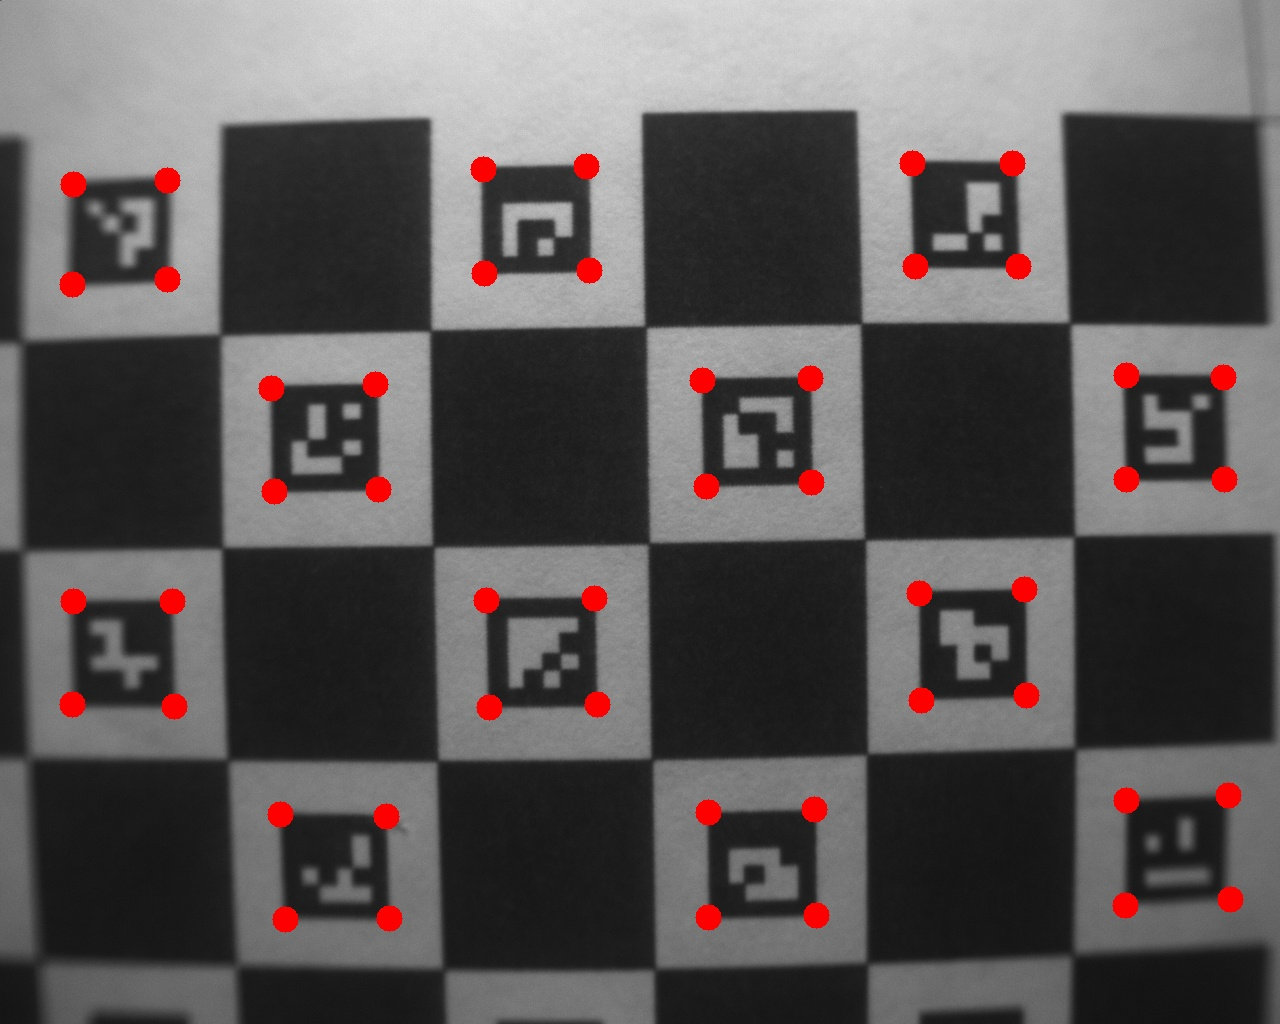
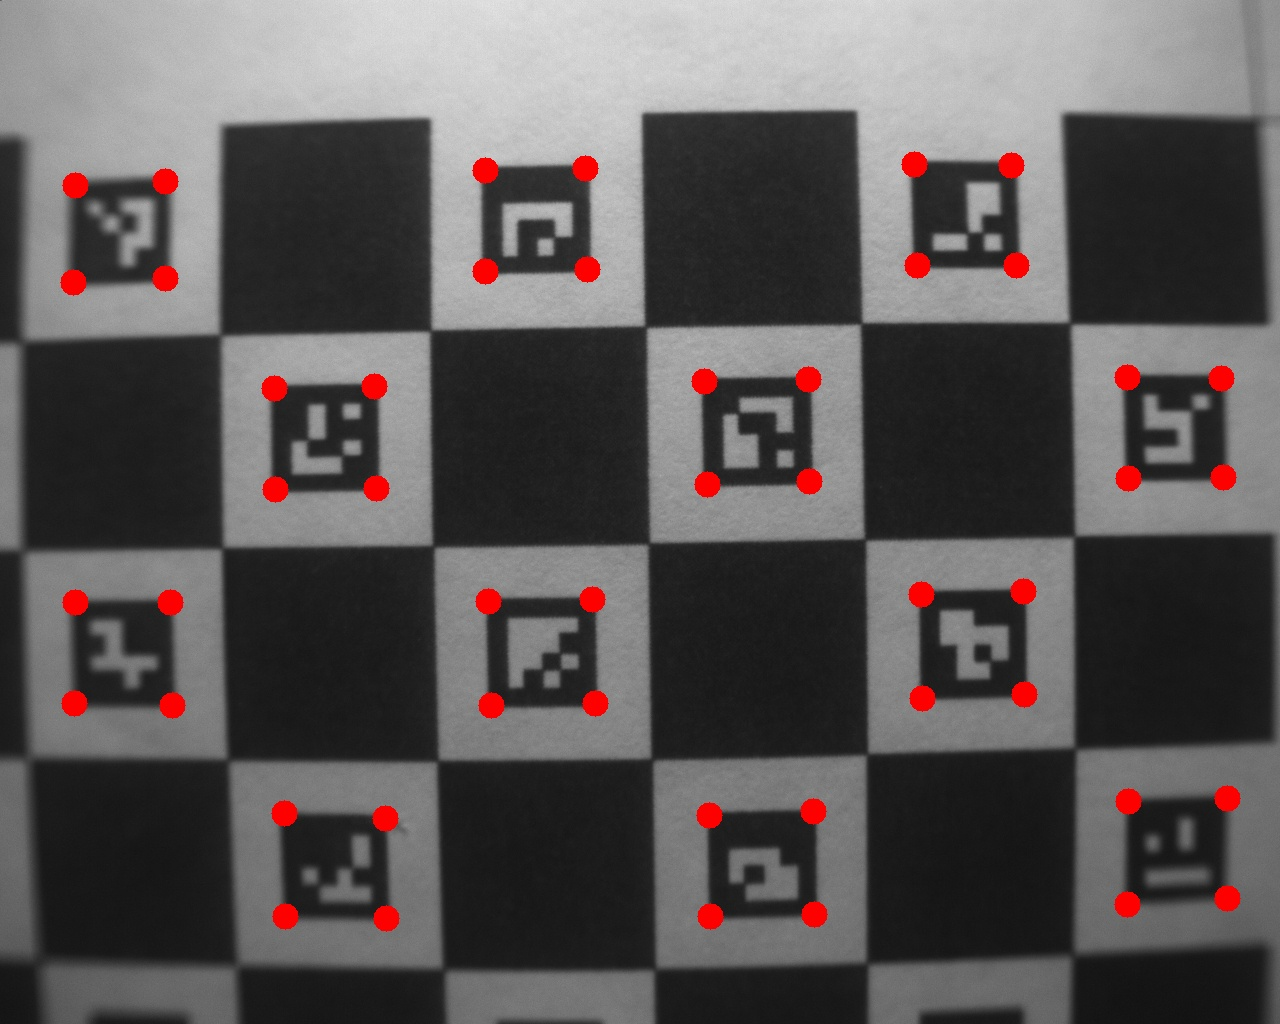
修改bug

diff --git a/1021/1021_block.py b/1021/1021_block.py
@@ -8,17 +8,23 @@ w = img.shape[1]
 gray = cv2.cvtColor(img, cv2.COLOR_BGR2GRAY)
 # thres = cv2.adaptiveThreshold(blur, 255, cv2.ADAPTIVE_THRESH_MEAN_C, cv2.THRESH_BINARY, 7, 2)
 _, thres = cv2.threshold(gray, 127, 255, cv2.THRESH_BINARY_INV + cv2.THRESH_OTSU)
+kernel = cv2.getStructuringElement(cv2.MORPH_ELLIPSE, (5, 5))
+thres = cv2.erode(thres, kernel)
+
+cv2.imwrite('1021/result/threshold.jpg', thres)
+print('Save \033[33mthreshold.jpg\033[0m') # debug
+
 
 num_labels, labels, stats, centroids = cv2.connectedComponentsWithStats(thres, connectivity=8, ltype=None)
 
-print(max(stats[:, 4])) # x、y、width、height和面积
+print(f'number of labels = {num_labels}') # x、y、width、height和面积
 
 # 參考自
 # https://gitcode.csdn.net/66c9b67013e4054e7e7d59c2.html?dp_token=eyJ0eXAiOiJKV1QiLCJhbGciOiJIUzI1NiJ9.eyJpZCI6MzE3NzA3NCwiZXhwIjoxNzMwMTAyODA5LCJpYXQiOjE3Mjk0OTgwMDksInVzZXJuYW1lIjoiMjMwMV83OTAyODYwOSJ9.yk7OgQeVEITBqDDS5W3mFSkjIFLcHnew5SVTZ5647zQ&spm=1001.2101.3001.6650.3&utm_medium=distribute.pc_relevant.none-task-blog-2%7Edefault%7Ebaidujs_baidulandingword%7Eactivity-3-127225934-blog-106023288.235%5Ev43%5Epc_blog_bottom_relevance_base1&depth_1-utm_source=distribute.pc_relevant.none-task-blog-2%7Edefault%7Ebaidujs_baidulandingword%7Eactivity-3-127225934-blog-106023288.235%5Ev43%5Epc_blog_bottom_relevance_base1&utm_relevant_index=6
 output = np.zeros((img.shape[0], img.shape[1], 3), np.uint8)
 want_group = []
 for i in range(1, num_labels):
-    if stats[i][4] > 80000: continue
+    if stats[i][4] > 11000: continue
     if stats[i][4] < 3000: continue
 
     want_group.append(i)
@@ -26,8 +32,8 @@ for i in range(1, num_labels):
     output[:, :, 0][mask] = np.random.randint(0, 255)
     output[:, :, 1][mask] = np.random.randint(0, 255)
     output[:, :, 2][mask] = np.random.randint(0, 255)
-print('OK') # debug
 cv2.imwrite('1021/result/find_connect.jpg', output)
+print('Save \033[33mfind_connect.jpg\033[0m') # debug
 
 group = {}
 for i in range(h):
@@ -38,7 +44,6 @@ for i in range(h):
         if group_num not in group:
             group[group_num] = []
         group[group_num].append([j, i])
-print('OK') # debug
 
 group_dis = {}
 for g in group:
@@ -54,7 +59,6 @@ for g in group:
                 max_dis = dis
                 max_node = [node_1, node_2]
     group_dis[g] = max_node
-print('OK') # debug
 
 for g in group:
     nodes = group[g]
@@ -78,7 +82,6 @@ for g in group:
             min_node = node
     group_dis[g].append(min_node)
     group_dis[g].append(max_node)
-print('OK') # debug
 
 find_coner = img.copy()
 for g in group_dis:
@@ -86,17 +89,26 @@ for g in group_dis:
         node = group_dis[g][i]
         cv2.circle(find_coner, (node[0], node[1]), 13, (0, 0, 255), -1)
 cv2.imwrite('1021/result/find_coner.jpg', find_coner)
+print('Save \033[33mfind_coner.jpg\033[0m') # debug
 
-def convert(pos):    
+def erode_second(img):
+    kernel = cv2.getStructuringElement(cv2.MORPH_CROSS, (3, 3))
+    erode = cv2.erode(img, kernel)
+    return erode
+
+def convert(pos, g):    
     h = 48
     w = 48
     origin_cord = np.array([[0, 0], [0, h], [w, 0], [w, h]], dtype=np.float32)
     my_cord = np.array(pos, dtype=np.float32)
 
     M = cv2.getPerspectiveTransform(my_cord, origin_cord)
-    # M2 = cv2.findHomography(my_cord, origin_cord)
+    # M2, _ = cv2.findHomography(my_cord, origin_cord)
 
     persp = cv2.warpPerspective(thres, M, (w, h))
+
+    if my_cord[0][0] >= 1120 and my_cord[0][1] >= 790:
+        persp = erode_second(persp)
 
     one_or_zero = np.zeros((6, 6))
     for i in range(w):
@@ -106,25 +118,37 @@ def convert(pos):
     one_or_zero = one_or_zero / 64
 
     num = 0
+    binary = ''
     for i in range(1, 5):
         for j in range(1, 5):
             num *= 2
-            if one_or_zero[i][j] >= 0.5: num += 1
-            else: num += 0
-    return num, f'{num:b}'
-    # print(num)
-    # print(f'{num:b}')
+            if one_or_zero[i][j] >= 0.5: num += 1; binary += '1'
+            else: num += 0; binary += '0'
+    cv2.imwrite(f'1021/result/blocks/{g}.jpg', persp)
+    return num, binary
+print('Save \033[33mblocks/g.jpg\033[0m') # debug
+
+def sort(l):    
+    cord = np.array(l)
+    max = np.argmax(np.sum(cord, axis = 1))     
+    cord[3, :], cord[max, :] = cord[max, :].copy(), cord[3, :].copy()
+    min = np.argmin(np.sum(cord, axis = 1))     
+    cord[0, :], cord[min, :] = cord[min, :].copy(), cord[0, :].copy()
+    if cord[1][1] < cord[2][1]:
+        cord[1, :], cord[2, :] = cord[2, :].copy(), cord[1, :].copy()
+    return cord.tolist()
 
 for g in group_dis:
-    group_dis[g].sort()
+    group_dis[g] = sort(group_dis[g])
     node_1 = group_dis[g][0]
     node_2 = group_dis[g][1]
-    num, binary = convert(group_dis[g])
-    cv2.putText(img, f'{num}', (int((node_1[0] + node_2[0]) / 2), node_1[1]), cv2.FONT_HERSHEY_TRIPLEX, 1, 
-                (0, 0, 255), 3)
-    print(binary)
+    num, binary = convert(group_dis[g], g)
+    cv2.putText(img, f'{num}', (int((node_1[0] + node_2[0]) / 2), node_1[1] - 20), cv2.FONT_HERSHEY_TRIPLEX, 1.5, 
+                (0, 0, 255), 2)
+    print(f'{binary} => {num:8d}')
 
 cv2.imwrite('1021/result/decode.jpg', img)
+print('Save \033[33mdecode.jpg\033[0m') # debug
 
 # contours, hierarchy = cv2.findContours(thres, cv2.RETR_LIST, cv2.CHAIN_APPROX_NONE)
 # contour = cv2.drawContours(img, contours, -1, (0, 0, 255), 5)

diff --git a/1021/try_decode.py b/1021/try_decode.py
@@ -1,0 +1,60 @@
+import numpy as np
+import cv2
+
+img = cv2.imread('1021/example/block.jpg')
+h = 48
+w = 48
+gray = cv2.cvtColor(img, cv2.COLOR_BGR2GRAY)
+# thres = cv2.adaptiveThreshold(blur, 255, cv2.ADAPTIVE_THRESH_MEAN_C, cv2.THRESH_BINARY, 7, 2)
+_, thres = cv2.threshold(gray, 127, 255, cv2.THRESH_BINARY_INV + cv2.THRESH_OTSU)
+# kernel = cv2.getStructuringElement(cv2.MORPH_ELLIPSE, (8, 8))
+kernel = cv2.getStructuringElement(cv2.MORPH_ELLIPSE, (5, 5))
+thres = cv2.erode(thres, kernel)
+# 給特定那個區塊用的
+# kernel = cv2.getStructuringElement(cv2.MORPH_CROSS, (3, 3))
+# thres = cv2.erode(thres, kernel)
+
+cord = np.array([[1224, 796], [1126, 903], [1227, 897], [1128, 802]], dtype=np.float32)
+max = np.argmax(np.sum(cord, axis = 1))     
+cord[3, :], cord[max, :] = cord[max, :].copy(), cord[3, :].copy()
+min = np.argmin(np.sum(cord, axis = 1))     
+cord[0, :], cord[min, :] = cord[min, :].copy(), cord[0, :].copy()
+if cord[1][1] < cord[2][1]:
+    cord[1, :], cord[2, :] = cord[2, :].copy(), cord[1, :].copy()
+
+print(cord.tolist())
+
+origin_cord = np.array([[0, 0], [0, h], [w, 0], [w, h]], dtype=np.float32)
+my_cord = np.array(cord, dtype=np.float32)
+
+# print(cord)
+# img_circle = img.copy()
+# for i in range(len(cord)):
+#     c = cord[i]
+#     cv2.circle(img_circle, c, 5, (0, 0, 100 + 50 * i), 3)
+# img_circle = cv2.resize(img_circle, (int(img_circle.shape[0] * 0.7), int(img_circle.shape[1] * 0.7)))
+# cv2.imshow('circle', img_circle)
+
+M = cv2.getPerspectiveTransform(my_cord, origin_cord)
+# M2, mask = cv2.findHomography(my_cord, origin_cord)
+
+persp = cv2.warpPerspective(thres, M, (w, h))
+
+one_or_zero = np.zeros((6, 6))
+for i in range(w):
+    for j in range(h):
+        if persp[i][j] == 255:
+            one_or_zero[(i // 8)][(j // 8)] += 1
+one_or_zero = one_or_zero / 64
+
+num = 0
+for i in range(1, 5):
+    for j in range(1, 5):
+        num *= 2
+        if one_or_zero[i][j] >= 0.5: num += 1
+        else: num += 0
+print(num)
+print(f'{num:016b}')
+print('1101010111110000')
+cv2.imshow('result', persp)
+cv2.waitKey(0)

diff --git a/1021/try_threshold.py b/1021/try_threshold.py
@@ -1,0 +1,12 @@
+import cv2
+
+img = cv2.imread('1021/example/block.jpg')
+
+gray = cv2.cvtColor(img, cv2.COLOR_BGR2GRAY)
+# thres = cv2.adaptiveThreshold(gray, 255, cv2.ADAPTIVE_THRESH_MEAN_C, cv2.THRESH_BINARY, 17, 2)
+_, thres = cv2.threshold(gray, 0, 255, cv2.THRESH_BINARY_INV + cv2.THRESH_OTSU)
+
+kernel = cv2.getStructuringElement(cv2.MORPH_ELLIPSE, (3, 3))
+dilate = cv2.erode(thres, kernel)
+
+cv2.imwrite('1021/result/threshold_1.jpg', dilate)
